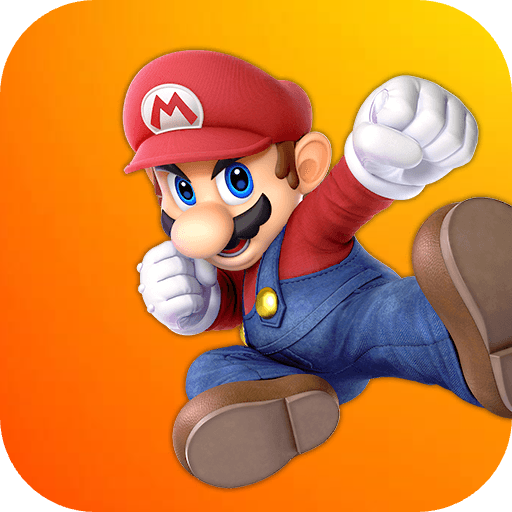
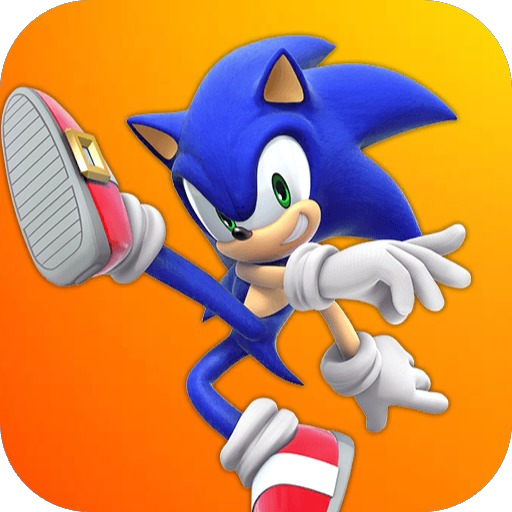
add graphics for loading bar

diff --git a/core/src/com/mygdx/game/GameConstants.java b/core/src/com/mygdx/game/GameConstants.java
@@ -3,47 +3,47 @@ package com.mygdx.game;
 import com.badlogic.gdx.Gdx;
 
 public class GameConstants {
-    public static final String SKIN_GLASSY_RED = new String("skin/MenuScreen/Glassy/glassy-ui.json");
-    public static final String SKIN_GLASSY_DARKRED = new String("skin/MenuScreen/Glassy_Mouse/glassy-ui.json");
-    public static final String SKIN_GLASSY_YELOW = new String("skin/PreferencesScreen/Glassy/glassy-ui.json");
-    public static final String SKIN_GLASSY_DARKYELLOW = new String("skin/PreferencesScreen/Glassy_Mouse/glassy-ui.json");
+    public static final String SKIN_GLASSY_RED = "skin/MenuScreen/Glassy/glassy-ui.json";
+    public static final String SKIN_GLASSY_DARKRED = "skin/MenuScreen/Glassy_Mouse/glassy-ui.json";
+    public static final String SKIN_GLASSY_YELOW = "skin/PreferencesScreen/Glassy/glassy-ui.json";
+    public static final String SKIN_GLASSY_DARKYELLOW = "skin/PreferencesScreen/Glassy_Mouse/glassy-ui.json";
 
-    public static final String SKIN_GLASSY_GREEN = new String("skin/ExitScreen/Glassy/glassy-ui.json");
-    public static final String SKIN_GLASSY_DARKGREEN = new String("skin/ExitScreen/Glassy_Mouse/glassy-ui.json");
+    public static final String SKIN_GLASSY_GREEN = "skin/ExitScreen/Glassy/glassy-ui.json";
+    public static final String SKIN_GLASSY_DARKGREEN = "skin/ExitScreen/Glassy_Mouse/glassy-ui.json";
 
-    public static final String SKIN_GLASSY_ORANGE = new String("skin/ChooseCharactersScreen/Glassy/glassy-ui.json");
+    public static final String SKIN_GLASSY_ORANGE = "skin/ChooseCharactersScreen/Glassy/glassy-ui.json";
 
-    public static final String SKIN_GLASSY_ORANGEDARK = new String("skin/ChooseCharactersScreen/Glassy_Mouse/glassy-ui.json");
+    public static final String SKIN_GLASSY_ORANGEDARK = "skin/ChooseCharactersScreen/Glassy_Mouse/glassy-ui.json";
 
-    public static final String SKIN_GLASSY_BLUE = new String("skin/SkinGlassyBlue/Glassy/glassy-ui.json");
+    public static final String SKIN_GLASSY_BLUE = "skin/SkinGlassyBlue/Glassy/glassy-ui.json";
 
-    public static final String SKIN_GLASSY_DISABLED= new String("skin/SkinDisabled/Glassy/glassy-ui.json");
+    public static final String SKIN_GLASSY_DISABLED= "skin/SkinDisabled/Glassy/glassy-ui.json";
 
 
-    public static final String STATSBOX_TEXTURE_RED = new String("Img/Components/box.png");
-    public static final String STATSBOX_TEXTURE_BLUE = new String("Img/Components/boxB.png");
+    public static final String STATSBOX_TEXTURE_RED = "Img/Components/box.png";
+    public static final String STATSBOX_TEXTURE_BLUE = "Img/Components/boxB.png";
 
-    public static final String SKIN_PROGRESSBAR = new String("skin/SkinProgressBar/skin.json");
-    public static final String FONT_ORBITRON_VARIABLE = new String("Font/Orbitron-VariableFont_wght.ttf");
-    public static final String BATTLEFILED_STAGE1 = new String("BattleFields/Stage1/fighting_polygon_stage.g3dj");
-    public static final String BACKGROUND_MENU = new String("Img/Background/Background_MenuScreen.jpg");
-    public static final String BACKGROUND_PREFERENCES = new String("Img/Background/Background_PreferencesScreen.jpg");
-    public static final String BACKGROUND_EXIT = new String("Img/Background/Background_ExitScreen.png");
-    public static final String BACKGROUND_CHOOSECHARACTERS = new String("Img/Background/Background_ChooseCharactersScreen.jpg");
+    public static final String SKIN_PROGRESSBAR = "skin/SkinProgressBar/skin.json";
 
-    public static final String IMAGE_TITLE = new String("Img/HeaderScreen/Title.png");
-    public static final String IMAGE_TITLE_PREFERENCES = new String("Img/HeaderScreen/TitlePreferences.png");
-    public static final String IMAGE_TITLE_EXIT = new String("Img/HeaderScreen/TitleExit.png");
+    public static final String BACKGROUND_MENU = "Img/Background/Background_MenuScreen.jpg";
+    public static final String BACKGROUND_PREFERENCES = "Img/Background/Background_PreferencesScreen.jpg";
+    public static final String BACKGROUND_EXIT = "Img/Background/Background_ExitScreen.png";
+    public static final String BACKGROUND_CHOOSECHARACTERS = "Img/Background/Background_ChooseCharactersScreen.jpg";
+    public static final String BACKGROUND_LOADING_GENERAL = "Img/Background/Background_General.png";
+    public static final String BACKGROUND_LOADING_BATTLE = "Img/Background/Background_BattleScreen.png";
 
-    public static final String MUSIC_BTN = new String("Sound Effects/Menu/Change_selected.wav");
+    public static final String[] CHARACTERS_NAMES = {"Mario","Donkey Kong","Sonic"};
+
+
+    public static final String IMAGE_TITLE = "Img/HeaderScreen/Title.png";
+    public static final String IMAGE_TITLE_PREFERENCES = "Img/HeaderScreen/TitlePreferences.png";
+    public static final String IMAGE_TITLE_EXIT = "Img/HeaderScreen/TitleExit.png";
+
+    public static final String MUSIC_BTN = "Sound Effects/Menu/Change_selected.wav";
 
 
     public static final int screenWidth = Gdx.graphics.getWidth();
     public static final int screenHeight = Gdx.graphics.getHeight();
 
-    public static final int centerX = screenWidth / 2;
     public static final int centerY = screenHeight / 2;
-    public static final int col_width = screenWidth / 8;
-    public static final int row_height = screenHeight / 8;
-    public static final int row_height2 = screenHeight / 16;
 }

diff --git a/core/src/com/mygdx/game/BattleScreen.java b/core/src/com/mygdx/game/BattleScreen.java
@@ -53,15 +53,9 @@ public class BattleScreen extends GameState {
     int framesPassedByLastStartPress;
     float secondsToMatchEnd;
     private int idC1, idC2;
-    private ProgressBar health1;
-    private ProgressBar health2;
-    private ProgressBar stamina1;
-    private ProgressBar stamina2;
-    private Image pg1Icn;
-    private Image pg2Icn;
-    private Image pg1Name;
-    private Image pg2Name;
-
+    private ProgressBar health1, health2, stamina1, stamina2;
+    private Image pg1Name, pg2Name, pg1Icn, pg2Icn;
+    private Image pg1, pg2, vs;
 
 
     private Environment environment;
@@ -153,7 +147,7 @@ public class BattleScreen extends GameState {
 
         //timer
         lblTimerHeight = 450;
-        lblTimer = new Label(""+(int)secondsToMatchEnd,new Skin(Gdx.files.internal(GameConstants.SKIN_GLASSY_RED)));
+        lblTimer = new Label("" + (int)secondsToMatchEnd,new Skin(Gdx.files.internal(GameConstants.SKIN_GLASSY_RED)));
         lblTimer.setSize(lblTimer.getPrefWidth(),lblTimer.getPrefHeight());
         lblTimer.setPosition((Gdx.graphics.getWidth() - lblTimer.getWidth())/2,(Gdx.graphics.getHeight() - lblTimer.getHeight())/2 + lblTimerHeight);
 
@@ -169,7 +163,7 @@ public class BattleScreen extends GameState {
         Gdx.gl.glClear(GL20.GL_COLOR_BUFFER_BIT | GL20.GL_DEPTH_BUFFER_BIT);
         //cameraController.update();
 
-        super.render(delta);//triggera metodi di input controller e normalExecution e loadingExecution
+        super.render(delta);//triggera metodi d'input controller e normalExecution e loadingExecution
     }
 
     @Override
@@ -330,6 +324,23 @@ public class BattleScreen extends GameState {
     }
     public void loadingExecution(Float delta){
 
+        Texture textureMenu = new Texture(GameConstants.BACKGROUND_LOADING_BATTLE);
+        Image backgroundMenu = new Image(textureMenu);
+        backgroundMenu.setBounds(0,0, GameConstants.screenWidth, GameConstants.screenHeight);
+
+        pg1 = new Image(new Texture("Img/Characters/" + GameConstants.CHARACTERS_NAMES[idC1] + "/" + GameConstants.CHARACTERS_NAMES[idC1] + ".png"));
+        pg1.setSize(GameConstants.screenWidth * 0.2f, GameConstants.screenHeight * 0.28f);
+        pg1.setPosition(GameConstants.screenWidth * 0.05f, GameConstants.screenHeight * 0.5f);
+
+        pg2 = new Image(new Texture("Img/Characters/" + GameConstants.CHARACTERS_NAMES[idC2] + "/" + GameConstants.CHARACTERS_NAMES[idC2] + "_isOverC2.png"));
+        pg2.setSize(GameConstants.screenWidth * 0.2f, GameConstants.screenHeight * 0.28f);
+        pg2.setScale(-1, 1);
+        pg2.setPosition(GameConstants.screenWidth - pg1.getX(), pg1.getY());
+
+        vs = new Image(new Texture("Img/BattleScreen/Versus.png"));
+        vs.setPosition(GameConstants.screenWidth/2f - vs.getWidth()/2, GameConstants.screenHeight * 0.45f);
+
+
         switch (loadingCounter){
             case 0:
                 loadingProgressBar.setValue(0);
@@ -338,13 +349,12 @@ public class BattleScreen extends GameState {
                 personaggio1 = new Character(camera3D, idC1, 0, 0, 0, 90, existingColliders);
                 personaggio1.set2DPosition(battleStage.getC1spawnPoint());
                 loadingProgressBar.setValue(25);
-
                 break;
             case 2:
                 personaggio2 = new Character(camera3D, idC2, 0, 0, 0, -90, existingColliders);
                 personaggio2.set2DPosition(battleStage.getC2spawnPoint());
-                loadingProgressBar.setValue(50);
 
+                loadingProgressBar.setValue(50);
                 break;
             case 3:
                 personaggio1.lodProjectiles();
@@ -416,7 +426,11 @@ public class BattleScreen extends GameState {
         }
 
         stageBackGroundBatch.begin();
+        backgroundMenu.draw(stageBackGroundBatch,1);
         loadingProgressBar.draw(stageBackGroundBatch,1);
+        pg1.draw(stageBackGroundBatch,1);
+        pg2.draw(stageBackGroundBatch,1);
+        vs.draw(stageBackGroundBatch,1);
         stageBackGroundBatch.end();
 
         System.out.println(loadingCounter);

diff --git a/core/src/com/mygdx/game/GameState.java b/core/src/com/mygdx/game/GameState.java
@@ -42,7 +42,7 @@ public abstract class GameState implements Screen{
         loadingCounter = 0;
         loadingProgressBar = new ProgressBar(0,100,1,false,new Skin(Gdx.files.internal(GameConstants.SKIN_PROGRESSBAR)));
         loadingProgressBar.setSize(Gdx.graphics.getWidth()/2f,Gdx.graphics.getWidth()/20f);
-        loadingProgressBar.setPosition((Gdx.graphics.getWidth()-loadingProgressBar.getWidth())/2f,(Gdx.graphics.getHeight()-loadingProgressBar.getHeight())/2f);
+        loadingProgressBar.setPosition((Gdx.graphics.getWidth() - loadingProgressBar.getWidth())/2f,(Gdx.graphics.getHeight() - loadingProgressBar.getHeight())/5f);
 
 
         buttonsDelays = new float[16];
@@ -80,10 +80,6 @@ public abstract class GameState implements Screen{
 
             case PREFERENCES:
                 newScreen = new PreferencesScreen(game);
-                break;
-
-            case EXIT:
-                newScreen = new ExitScreen(game);
                 break;
 
             case BATTLESCREEN:

diff --git a/core/src/com/mygdx/game/Main.java b/core/src/com/mygdx/game/Main.java
@@ -14,7 +14,7 @@ public class Main extends Game {
 
      */
 
-    public static final boolean USE_CONTROLLERS = true;
+    public static final boolean USE_CONTROLLERS = false;
     public static boolean EMULATING_CONTROLLER_1 = true;//per adesso tastiera sempre attiva
 
     public Controller c1,c2;
@@ -49,7 +49,7 @@ public class Main extends Game {
 
         bgm = Gdx.audio.newMusic(Gdx.files.internal("BGM/" + pathMusic[0] + ".mp3"));
 
-        musicVolume = 0.1f;//min 0.01 = 1% max 1.0 = 100%
+        musicVolume = 0.0f;//min 0.01 = 1% max 1.0 = 100%
         bgm.setVolume(musicVolume);
         bgm.play();
         bgm.setLooping(true);
